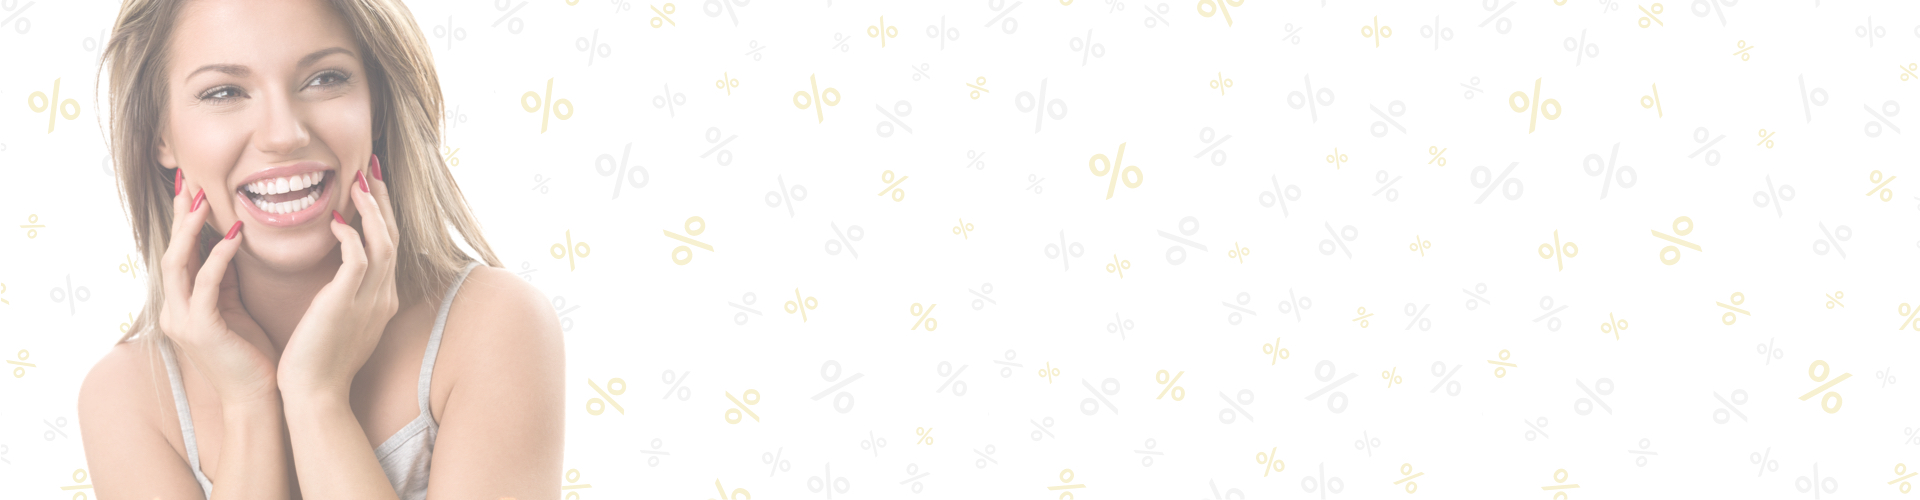
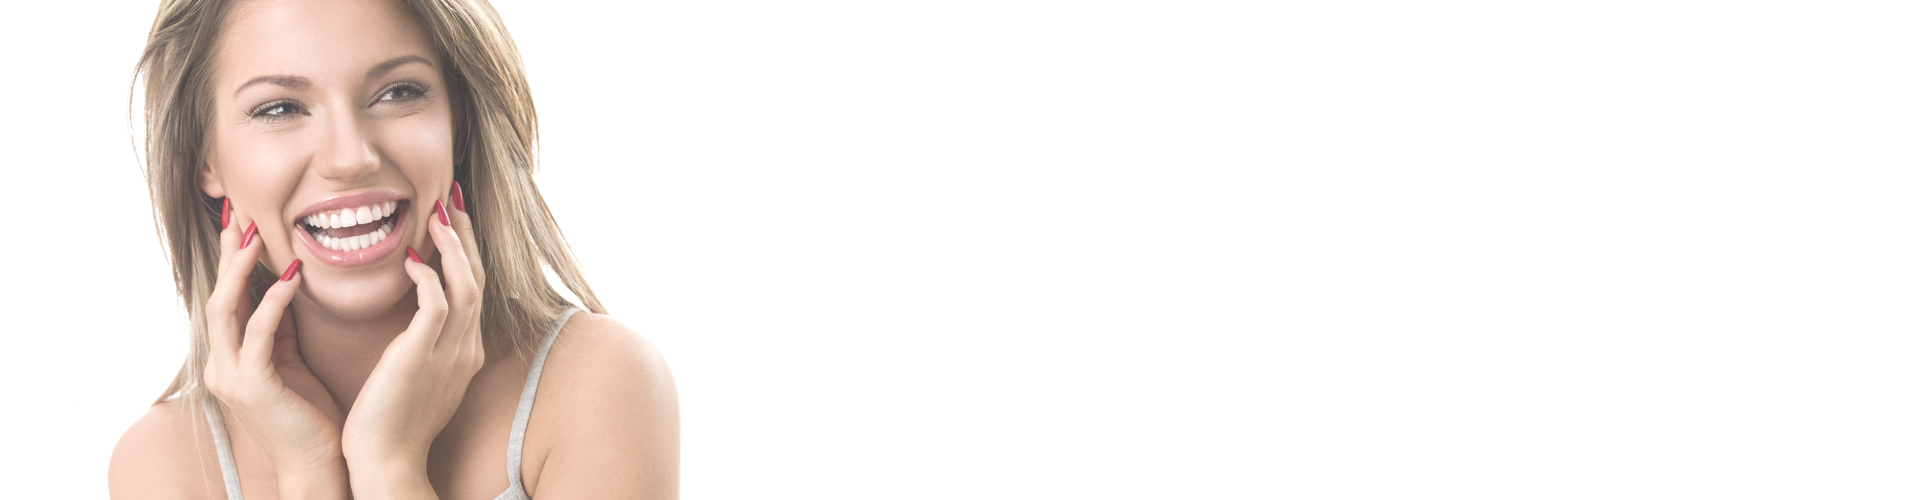
add header images for pages

diff --git a/src/components/ArticleHeaderImage/index.js b/src/components/ArticleHeaderImage/index.js
@@ -2,14 +2,30 @@ import React from 'react'
 import PropTypes from 'prop-types'
 import Img from 'gatsby-image'
 
-function ArticleHeaderImage({ title, imgSizes, noEffects }) {
+function ArticleHeaderImage({
+    title,
+    imgSizes,
+    alignLeft,
+    alignRight,
+    noEffects,
+}) {
     const filterClassName = noEffects ? '' : 'ArticleHeaderImage__img--filter'
+    let alignClassName = ''
+
+    if (alignLeft) {
+        alignClassName = 'ArticleHeaderImage__title--align-left'
+    } else if (alignRight) {
+        alignClassName = 'ArticleHeaderImage__title--align-right'
+    }
+
     return (
         <div className={'ArticleHeaderImage'}>
             <div className={`ArticleHeaderImage__img ${filterClassName}`}>
                 <Img sizes={imgSizes} />
             </div>
-            <h1 className={'ArticleHeaderImage__title'}>{title}</h1>
+            <h1 className={`ArticleHeaderImage__title ${alignClassName}`}>
+                {title}
+            </h1>
         </div>
     )
 }
@@ -17,10 +33,14 @@ function ArticleHeaderImage({ title, imgSizes, noEffects }) {
 ArticleHeaderImage.propTypes = {
     title: PropTypes.string.isRequired,
     imgSizes: PropTypes.object.isRequired,
+    alignLeft: PropTypes.bool,
+    alignRight: PropTypes.bool,
     noEffects: PropTypes.bool,
 }
 
 ArticleHeaderImage.defaultProps = {
+    alignLeft: false,
+    alignRight: false,
     noEffects: false,
 }
 

diff --git a/src/pages/prices.js b/src/pages/prices.js
@@ -30,7 +30,12 @@ function PriceList({ data }) {
         <div>
             <Helmet data={data} title="Цены" description="" keywords="" />
 
-            <ArticleHeaderImage title={'Цены'} imgSizes={data.blank.sizes} />
+            <ArticleHeaderImage
+                title={'Цены'}
+                imgSizes={data.blank.sizes}
+                alignLeft
+                noEffects
+            />
             <div className="PageContent__wrapper">
                 <InfoBlock color="red">
                     <p>
@@ -56,8 +61,8 @@ export default PriceList
 export const pageQuery = graphql`
     query Prices {
         ...Helmet
-        blank: imageSharp(id: { regex: "/blank/" }) {
-            sizes(maxWidth: 960) {
+        blank: imageSharp(id: { regex: "/prices-header/" }) {
+            sizes(maxWidth: 960, quality: 65) {
                 ...GatsbyImageSharpSizes_noBase64
             }
         }

diff --git a/src/css/components/ArticleHeaderImage.less b/src/css/components/ArticleHeaderImage.less
@@ -10,18 +10,28 @@
 
 .ArticleHeaderImage__title {
     position: absolute;
-    top: 50%;
+    top: 45%;
     left: 50%;
     transform: translate(-50%, -60%);
-    font-size: 2em;
+
+    font-weight: normal;
+    font-size: 2.2em;
     text-transform: uppercase;
     width: 100%;
-    color: @gray-20;
-    //color: darken(@gold-dark, 10%);
+    color: @gray-30;
+    //color: darken(@gold-dark, 5%);
     //text-shadow: 1px 1px 0 @gold-dark;
+
+    &--align-left {
+        left: 35%;
+    }
+    &--align-right {
+        left: 65%;
+    }
 }
 
 .ArticleHeaderImage__img {
+    //transform: translateX(50px);
     &--filter {
         img {
             filter: opacity(30%);
@@ -35,6 +45,6 @@
     }
 
     .ArticleHeaderImage__title {
-        font-size: 3em;
+        font-size: 3.5em;
     }
 }

diff --git a/src/pages/articles.js b/src/pages/articles.js
@@ -20,6 +20,7 @@ function ArticleList({ data }) {
             <ArticleHeaderImage
                 title={'Статьи'}
                 imgSizes={data.blank.sizes}
+                alignRight
                 noEffects
             />
             <div className="PageContent__wrapper">{articlesElements}</div>
@@ -32,8 +33,8 @@ export default ArticleList
 export const pageQuery = graphql`
     query Articles {
         ...Helmet
-        blank: imageSharp(id: { regex: "/blank/" }) {
-            sizes(maxWidth: 960) {
+        blank: imageSharp(id: { regex: "/articles-header/" }) {
+            sizes(maxWidth: 960, quality: 60) {
                 ...GatsbyImageSharpSizes_noBase64
             }
         }

diff --git a/src/pages/contacts.js b/src/pages/contacts.js
@@ -11,6 +11,7 @@ function Contacts({ data }) {
             <ArticleHeaderImage
                 title={'Контакты'}
                 imgSizes={data.contactsHeader.sizes}
+                alignLeft
                 noEffects
             />
             <div className="Contacts">
@@ -29,8 +30,8 @@ export default Contacts
 export const pageQuery = graphql`
     query Contacts {
         ...Helmet
-        contactsHeader: imageSharp(id: { regex: "/contacts-header1/" }) {
-            sizes(maxWidth: 960) {
+        contactsHeader: imageSharp(id: { regex: "/contacts-header/" }) {
+            sizes(maxWidth: 960, quality: 65) {
                 ...GatsbyImageSharpSizes_noBase64
             }
         }

diff --git a/src/pages/services.js b/src/pages/services.js
@@ -12,6 +12,8 @@ function Services({ data }) {
             <ArticleHeaderImage
                 title={'Услуги'}
                 imgSizes={data.servicesHeader.sizes}
+                alignRight
+                noEffects
             />
 
             <div className="PageContent__wrapper">
@@ -35,8 +37,8 @@ export default Services
 export const pageQuery = graphql`
     query Services {
         ...Helmet
-        servicesHeader: imageSharp(id: { regex: "/face/" }) {
-            sizes(maxWidth: 960) {
+        servicesHeader: imageSharp(id: { regex: "/services-header/" }) {
+            sizes(maxWidth: 960, quality: 65) {
                 ...GatsbyImageSharpSizes_noBase64
             }
         }

diff --git a/src/pages/doctors.js b/src/pages/doctors.js
@@ -20,6 +20,7 @@ function Doctors({ data }) {
             <ArticleHeaderImage
                 title={'Врачи'}
                 imgSizes={data.blank.sizes}
+                alignLeft
                 noEffects
             />
             <div className="PageContent__wrapper">{doctorsElements}</div>
@@ -36,8 +37,8 @@ export default Doctors
 export const pageQuery = graphql`
     query Doctors {
         ...Helmet
-        blank: imageSharp(id: { regex: "/blank/" }) {
-            sizes(maxWidth: 960) {
+        blank: imageSharp(id: { regex: "/doctors-header/" }) {
+            sizes(maxWidth: 960, quality: 65) {
                 ...GatsbyImageSharpSizes_noBase64
             }
         }

diff --git a/src/pages/actions.js b/src/pages/actions.js
@@ -13,6 +13,7 @@ function Actions({ data }) {
             <ArticleHeaderImage
                 title={'Акции'}
                 imgSizes={data.contactsHeader.sizes}
+                alignRight
                 noEffects
             />
             <ActionList
@@ -30,7 +31,7 @@ export const pageQuery = graphql`
     query Actions {
         ...Helmet
         contactsHeader: imageSharp(id: { regex: "/actions-header/" }) {
-            sizes(maxWidth: 960) {
+            sizes(maxWidth: 960, quality: 65) {
                 ...GatsbyImageSharpSizes_noBase64
             }
         }
